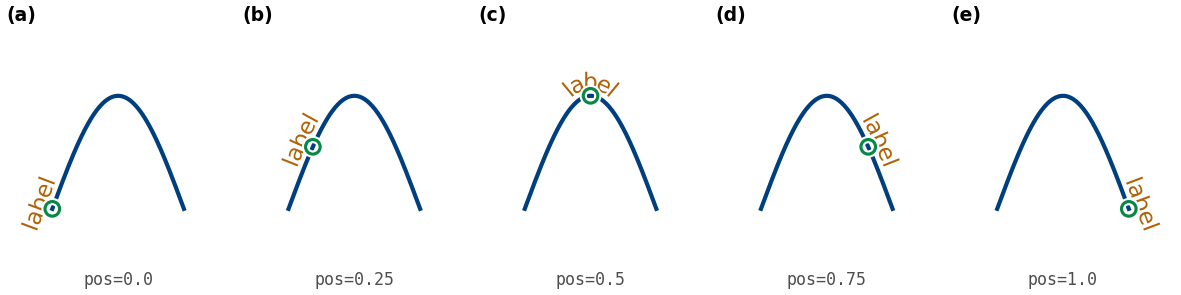
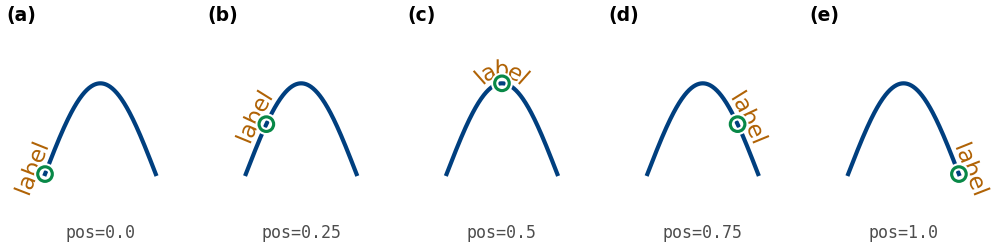
Give every gallery figure the same width and give 06 and 08 the literal call as their caption

diff --git a/examples/example_08_styling_passthrough.py b/examples/example_08_styling_passthrough.py
@@ -17,7 +17,7 @@ from _style import CURVE_COLOR, TEXT, bare, caption, figure, save
 
 
 def make(images_dir):
-    fig = figure(15, 7, font_size=10)
+    fig = figure(17, 7.9, font_size=10)
     ax = fig.subplots()
     bare(ax)
 
@@ -33,8 +33,10 @@ def make(images_dir):
                 color=TEXT["blue"], fontsize=15, alpha=0.85,
                 fontweight="bold", fontfamily="serif")
 
-    caption(ax, 'color=..., fontsize=15, alpha=0.85, '
-                'fontweight="bold", fontfamily="serif"')
+    caption(ax, 'curved_text(ax, x, y, "styled per character", ..., '
+                'fontsize=15,\n'
+                '            alpha=0.85, fontweight="bold", '
+                'fontfamily="serif")')
 
     path = os.path.join(images_dir, "08_styling_passthrough.png")
     return save(fig, path)

diff --git a/examples/example_06_overrun_tangent.py b/examples/example_06_overrun_tangent.py
@@ -16,7 +16,7 @@ from _style import CURVE_COLOR, LABEL_COLOR, bare, caption, figure, save
 
 
 def make(images_dir):
-    fig = figure(15, 7, font_size=10)
+    fig = figure(17, 7.9, font_size=10)
     ax = fig.subplots()
     bare(ax)
 
@@ -39,7 +39,8 @@ def make(images_dir):
                 pos=0.55, anchor="start", offset=6.0,
                 color=LABEL_COLOR, fontsize=12)
 
-    caption(ax, 'pos=0.55, anchor="start"  (curve solid, tangent dashed)')
+    caption(ax, 'curved_text(ax, x, y, "...", pos=0.55, anchor="start", '
+                'offset=6.0)')
 
     path = os.path.join(images_dir, "06_overrun_tangent.png")
     return save(fig, path)

diff --git a/examples/example_07_glued_resize.py b/examples/example_07_glued_resize.py
@@ -31,7 +31,7 @@ def _panel(ax, label):
 
 
 def make(images_dir):
-    fig = figure(18, 9, font_size=9)
+    fig = figure(17, 8.5, font_size=9)
     # A wide panel and a narrow one, same data and same label call.
     # gridspec_kw, not width_ratios, which matplotlib 3.5 does not take.
     axes = fig.subplots(1, 2, gridspec_kw={"width_ratios": [2.2, 1.0]})

diff --git a/examples/example_16_usetex.py b/examples/example_16_usetex.py
@@ -35,7 +35,7 @@ def make(images_dir):
         return None
 
     with mpl.rc_context({"text.usetex": True, "font.family": "serif"}):
-        fig = figure(12, 8, font_size=10)
+        fig = figure(17, 11.3, font_size=10)
         ax = data_axes(fig.subplots(), font_size=10)
         t = np.linspace(0, 10, 200)
         for tau, hue, pos in SERIES:

diff --git a/examples/example_09_seaborn_pandas.py b/examples/example_09_seaborn_pandas.py
@@ -26,7 +26,7 @@ def make(images_dir):
     x = np.linspace(0, 10, 200)
     df = pd.DataFrame({"x": x, "y": np.sqrt(x)})
 
-    fig = figure(12, 8, font_size=10)
+    fig = figure(17, 11.3, font_size=10)
     ax = fig.subplots()
     sns.lineplot(data=df, x="x", y="y", ax=ax, color=CURVE_COLOR,
                  linewidth=2)

diff --git a/examples/example_11_box.py b/examples/example_11_box.py
@@ -19,7 +19,7 @@ LABEL = r"signal $s(t) = A\,e^{-t/\tau}$"
 
 
 def make(images_dir):
-    fig = figure(20, 9, font_size=9)
+    fig = figure(17, 7.7, font_size=9)
     axes = fig.subplots(2, 1)
 
     # A gentle arch with enough curvature that the label visibly follows it.

diff --git a/examples/example_12_box_vs_stroke.py b/examples/example_12_box_vs_stroke.py
@@ -20,7 +20,7 @@ LABEL = "crossing the gridlines"
 
 
 def make(images_dir):
-    fig = figure(20, 9, font_size=9)
+    fig = figure(17, 7.7, font_size=9)
     axes = fig.subplots(2, 1)
 
     # A gentle arch crossing a set of horizontal lines, so the casing has

diff --git a/examples/example_03_pos_sweep.py b/examples/example_03_pos_sweep.py
@@ -18,7 +18,7 @@ POSITIONS = [0.0, 0.25, 0.5, 0.75, 1.0]
 
 
 def make(images_dir):
-    fig = figure(20, 5, font_size=8)
+    fig = figure(17, 4.2, font_size=8)
     axes = fig.subplots(1, len(POSITIONS))
 
     x = np.linspace(0, 1, 200)

diff --git a/examples/example_02_sine_hello.py b/examples/example_02_sine_hello.py
@@ -14,7 +14,7 @@ from _style import CURVE_COLOR, LABEL_COLOR, bare, caption, figure, save
 
 
 def make(images_dir):
-    fig = figure(14, 6, font_size=11)
+    fig = figure(17, 7.3, font_size=11)
     ax = fig.subplots()
     bare(ax)
 

diff --git a/examples/example_10_mathtext.py b/examples/example_10_mathtext.py
@@ -17,7 +17,7 @@ from _style import CURVE_COLOR, LABEL_COLOR, bare, caption, figure, save
 
 
 def make(images_dir):
-    fig = figure(15, 7, font_size=11)
+    fig = figure(17, 7.9, font_size=11)
     ax = fig.subplots()
     bare(ax)
 

diff --git a/examples/example_15_mixed_alignment.py b/examples/example_15_mixed_alignment.py
@@ -19,7 +19,7 @@ LABEL = r"mass $m$ and speed $c$ give $E = mc^2$"
 
 
 def make(images_dir):
-    fig = figure(16, 6, font_size=11)
+    fig = figure(17, 6.4, font_size=11)
     ax = fig.subplots()
     bare(ax)
 

diff --git a/examples/example_05_offset_ladder.py b/examples/example_05_offset_ladder.py
@@ -21,7 +21,7 @@ POS = 0.5
 
 
 def make(images_dir):
-    fig = figure(18, 5.5, font_size=8)
+    fig = figure(17, 5.2, font_size=8)
     axes = fig.subplots(1, len(OFFSETS))
 
     x = np.linspace(0, 1, 200)
